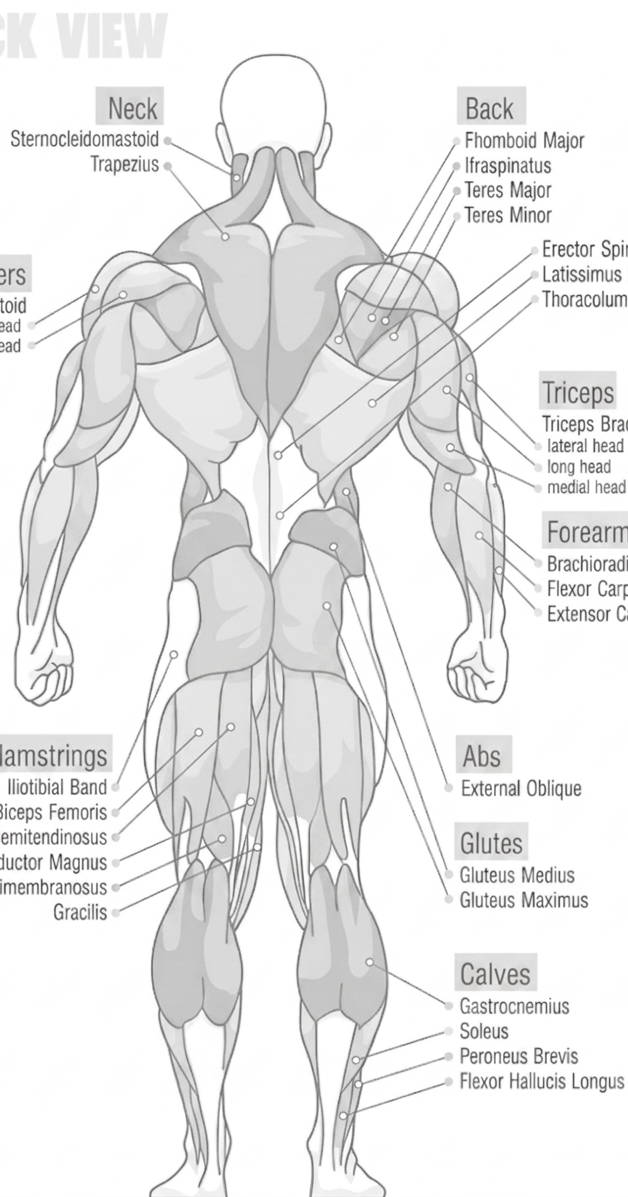
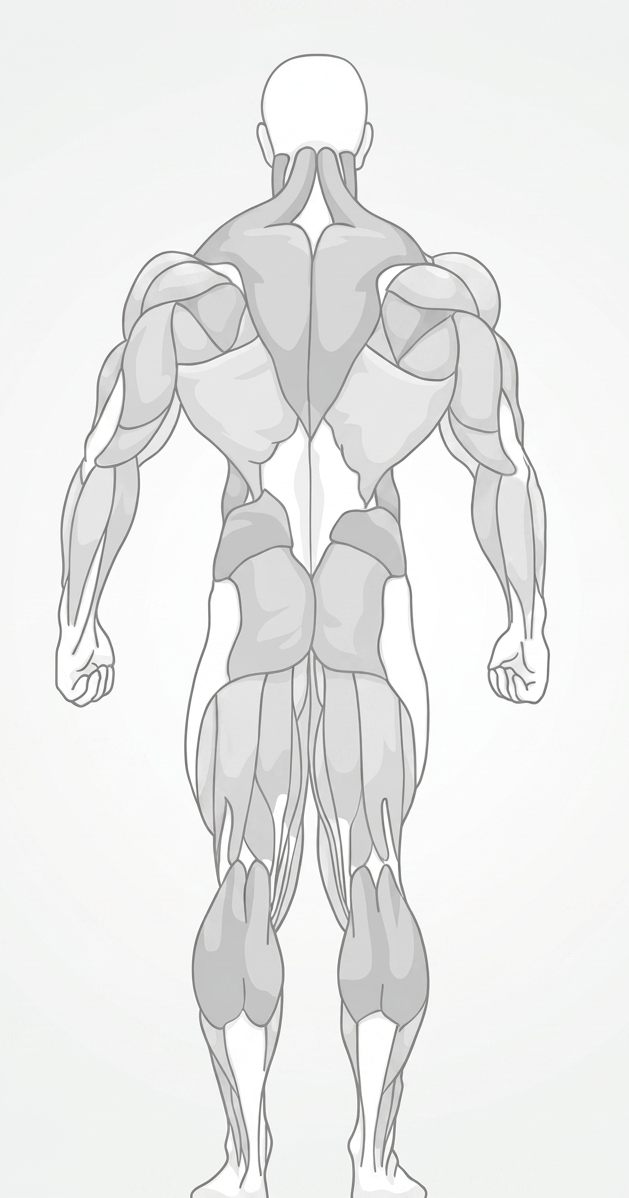
feat: use clean label-free anatomical images for muscle map
Replace combined body_diagram_clean.png with two separate clean images:
- body_front.png: 613×1168 clean front-view anatomical diagram
- body_back.png:  629×1198 clean back-view anatomical diagram

Both cropped to 155×295 aspect ratio with the figure horizontally
centered to match existing SVG muscle-highlight path coordinates
(front center at x=92/155, back center at x=74/155, scale ≈0.253).

https://claude.ai/code/session_01CNgaPeZDmZ2EehmJcXwwst

diff --git a/src/components/workout/ExerciseMuscleMap.tsx b/src/components/workout/ExerciseMuscleMap.tsx
@@ -135,11 +135,12 @@ function toRegions(names: string[]): Set<Region> {
   return result;
 }
 
-// Image: 713×678 (front body LEFT half, back body RIGHT half).
-// body_diagram_clean.png — clean diagram, no labels.
-// Paths extracted by pixel-level flood-fill contour tracing, scaled to 155×295.
+// Two separate clean anatomical images, no labels.
+// body_front.png: 613×1168 crop centred at 59.4% of width → figure at x=92/155.
+// body_back.png:  629×1198 crop centred at 47.7% of width → figure at x=74/155.
+// Both render at 155×295 with uniform scale ~0.253, keeping SVG paths calibrated.
 const DISP_W = 155;
-const FULL_W  = DISP_W * 2;
+const FULL_W  = DISP_W * 2;   // kept for layout only
 const DISP_H  = 295;
 
 type BodyView = 'front' | 'back';
@@ -265,10 +266,12 @@ export default function ExerciseMuscleMap({ primaryMuscles, secondaryMuscles, st
       </View>
 
       <View style={{ width: DISP_W, height: DISP_H }}>
-        <View style={{ width: DISP_W, height: DISP_H, overflow: 'hidden' }}>
+        <View style={{ width: DISP_W, height: DISP_H }}>
           <Image
-            source={require('../../assets/body_diagram_clean.png')}
-            style={{ width: FULL_W, height: DISP_H, marginLeft: view === 'back' ? -DISP_W : 0 }}
+            source={view === 'front'
+              ? require('../../assets/body_front.png')
+              : require('../../assets/body_back.png')}
+            style={{ width: DISP_W, height: DISP_H }}
             resizeMode="stretch"
           />
         </View>
